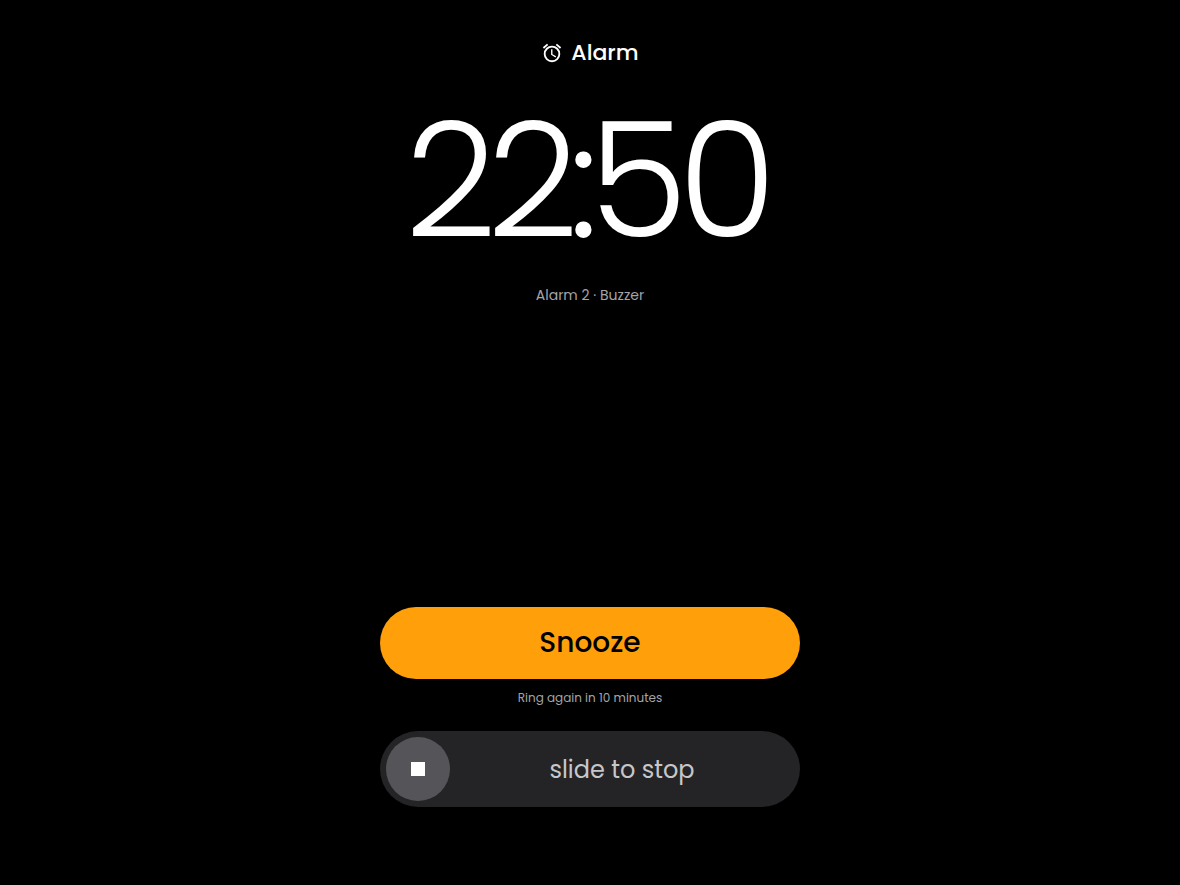
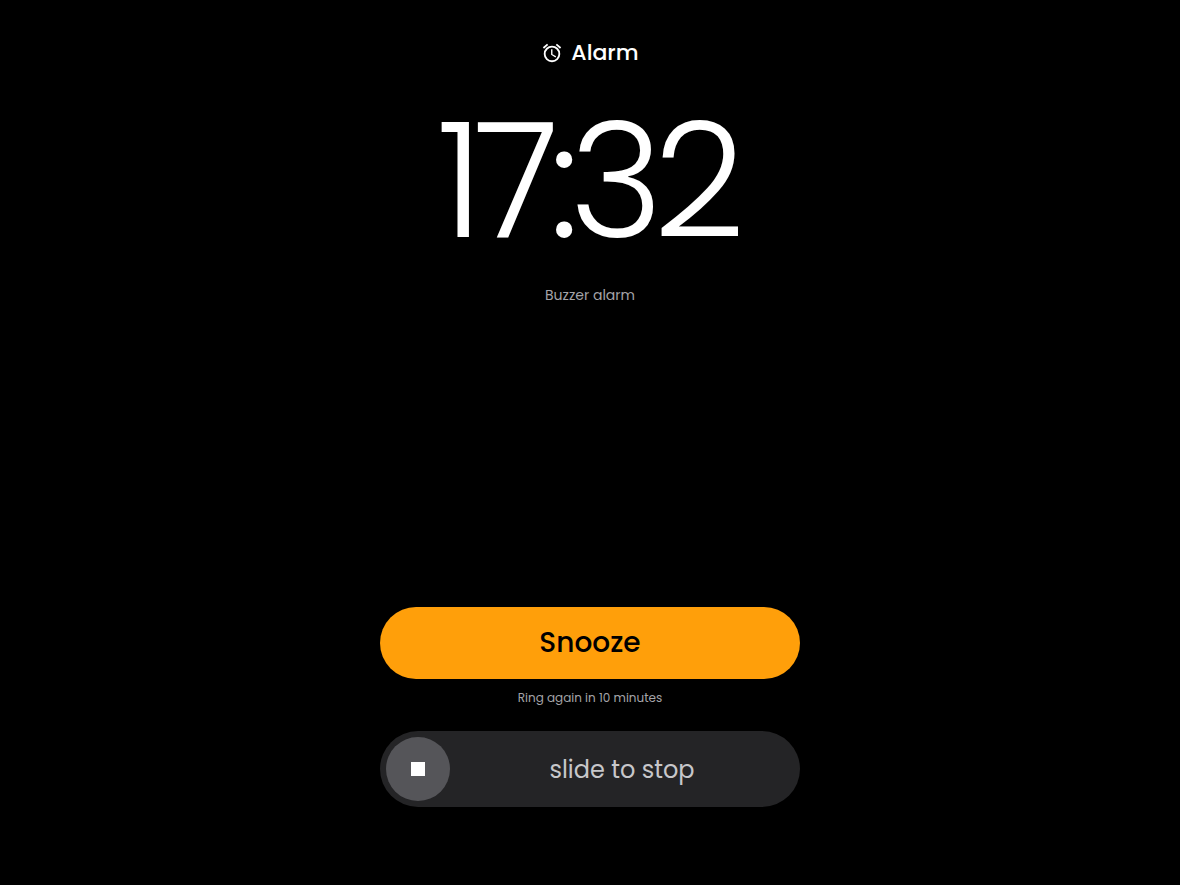
Remove numbered alarm labels (0.14.3)
Use time, type and repeat days to identify alarms in controls and deletion confirmations. Remove numbered titles, notifications and ringing labels while preserving HA profile IDs, command targets and captured ringing identity. Update tests and documentation screenshots.

Changed region(s): [[0.3356, 0.122, 0.6712, 0.2746], [0.4576, 0.3051, 0.5492, 0.3356]]

diff --git a/clock-radio/app/web/js/pages/alarms.js b/clock-radio/app/web/js/pages/alarms.js
@@ -30,6 +30,14 @@ export function repeatLabel(days) {
   return DAYS.flatMap((day, index) => days[day] ? [DAY_NAMES[index]] : []).join(", ");
 }
 
+export function alarmLabel(alarm, hour12) {
+  const parts = validTime(alarm) ? timeParts(alarm.hour, alarm.minute, hour12) : null;
+  const time = parts
+    ? `${hour12 ? parts.hour : pad(parts.hour)}:${pad(parts.minute)}${hour12 ? parts.period ? " PM" : " AM" : ""}`
+    : "--:--";
+  return `${time} · ${alarm.type || "Unavailable"} · ${repeatLabel(alarm.days)}`;
+}
+
 function hour12For(model) {
   const clock = model.config.clock;
   if (clock.time_format !== "automatic") return clock.time_format === "12-hour";
@@ -101,13 +109,14 @@ export function createAlarmPage(ctx) {
       ctx.toast("Deletion is unavailable. Check the HA package, connection and pending alarm operations.");
       return;
     }
-    if (!model.alarms.alarms.some((alarm) => alarm.id === id)) {
+    const alarm = model.alarms.alarms.find((alarm) => alarm.id === id);
+    if (!alarm) {
       ctx.toast("This alarm is no longer configured.");
       return;
     }
     deleteId = id;
-    deleteTitle.textContent = `Delete Alarm ${id}?`;
-    deleteMessage.textContent = "This cannot be undone. Any ringing playback or snooze for this alarm will be stopped/cancelled. "
+    deleteTitle.textContent = "Delete alarm?";
+    deleteMessage.textContent = `${alarmLabel(alarm, hour12For(model))}. This cannot be undone. Any ringing playback or snooze for this alarm will be stopped/cancelled. `
       + (id <= 2 ? "The bundled profile will be disabled and hidden; its YAML helpers remain in HA." : "This alarm's helpers will be removed from HA.");
     deleteStatus.textContent = "";
     deleteDialog.setAttribute("aria-modal", "true");
@@ -139,7 +148,7 @@ export function createAlarmPage(ctx) {
       if (await ctx.write("api/alarm/delete", { id })) {
         if (activeId === id) closeEditor();
         if (deleteDialog.open) deleteDialog.close();
-        ctx.toast(`Alarm ${id} deleted.`);
+        ctx.toast("Alarm deleted.");
       } else {
         deleteStatus.textContent = ctx.writeError() || "The alarm was not deleted. Check HA and retry.";
         pageStatus.textContent = deleteStatus.textContent;
@@ -300,7 +309,7 @@ export function createAlarmPage(ctx) {
     dirty = false;
     status.textContent = "";
     reload.hidden = true;
-    title.textContent = `Edit Alarm ${id}`;
+    title.textContent = "Edit alarm";
     timeZone.textContent = `Home Assistant time zone: ${model.clock.timeZone || "not available"}`;
     createdInfo.hidden = !created;
     createdInfo.textContent = created ? "This alarm is already stored in HA. Cancel leaves it disabled without applying your edits." : "";
@@ -331,7 +340,7 @@ export function createAlarmPage(ctx) {
         const record = rows.get(id);
         if (record) record.error = null;
         if (activeId === id) closeEditor();
-        ctx.toast(`Alarm ${id} saved.`);
+        ctx.toast("Alarm saved.");
       } else {
         status.textContent = ctx.writeError() || "Alarm settings were not saved.";
         reload.hidden = false;
@@ -349,16 +358,16 @@ export function createAlarmPage(ctx) {
     const time = h("span", { class: "alarm-row__time" });
     const period = h("span", { class: "alarm-row__period" });
     const summary = h("span", { class: "alarm-row__summary" });
-    const edit = h("button", { class: "alarm-row__edit", type: "button", "aria-label": `Edit Alarm ${id}` },
+    const edit = h("button", { class: "alarm-row__edit", type: "button", "aria-label": "Edit alarm" },
       h("span", { class: "alarm-row__clock" }, time, period), summary);
     edit.addEventListener("click", () => openEditor(id));
-    const toggle = switchControl(`Enable Alarm ${id}`);
+    const toggle = switchControl("Enable alarm");
     const message = h("p", { class: "alarm-row__status", role: "status" });
     const resume = h("button", { class: "btn", type: "button", hidden: true }, "Finish setup");
-    const remove = h("button", { class: "alarm-icon-button alarm-icon-button--danger", type: "button", "aria-label": `Delete Alarm ${id}`, title: `Delete Alarm ${id}` }, icon("delete"));
+    const remove = h("button", { class: "alarm-icon-button alarm-icon-button--danger", type: "button", "aria-label": "Delete alarm", title: "Delete alarm" }, icon("delete"));
     remove.addEventListener("click", () => openDelete(id));
     const record = { edit, toggle: toggle.control, time, period, summary, message, resume, remove, error: null, saving: false };
-    record.el = h("article", { class: "alarm-row", "aria-label": `Alarm ${id}` },
+    record.el = h("article", { class: "alarm-row", "aria-label": "Alarm" },
       h("div", { class: "alarm-row__main" }, edit, toggle.el, remove), message, resume);
     toggle.control.addEventListener("change", async () => {
       const model = ctx.getModel();
@@ -406,7 +415,7 @@ export function createAlarmPage(ctx) {
       if (ids.includes(id)) continue;
       record.el.remove();
       rows.delete(id);
-      ctx.toast(`Alarm ${id} is no longer configured.`);
+      ctx.toast("An alarm is no longer configured.");
     }
     const hour12 = hour12For(model);
     for (const alarm of alarms) {
@@ -422,7 +431,13 @@ export function createAlarmPage(ctx) {
         record.time.textContent = `${hour12 ? parts.hour : pad(parts.hour)}:${pad(parts.minute)}`;
         record.period.textContent = hour12 ? parts.period ? "PM" : "AM" : "";
       } else { record.time.textContent = "--:--"; record.period.textContent = ""; }
-      record.summary.textContent = `Alarm ${alarm.id} · ${alarm.type || "Unavailable"} · ${repeatLabel(alarm.days)}`;
+      record.summary.textContent = `${alarm.type || "Unavailable"} · ${repeatLabel(alarm.days)}`;
+      const label = alarmLabel(alarm, hour12);
+      record.el.setAttribute("aria-label", `Alarm: ${label}`);
+      record.edit.setAttribute("aria-label", `Edit alarm: ${label}`);
+      record.toggle.setAttribute("aria-label", `Enable alarm: ${label}`);
+      record.remove.setAttribute("aria-label", `Delete alarm: ${label}`);
+      record.remove.title = `Delete alarm: ${label}`;
       record.edit.disabled = busy || !available;
       record.toggle.disabled = busy || record.saving || !ctx.canControl() || !available || Boolean(model.alarms.delete_error);
       record.remove.disabled = record.saving || !deletionAllowed(model, alarm.id, busy);

diff --git a/clock-radio/app/test/alarm-ui.test.js b/clock-radio/app/test/alarm-ui.test.js
@@ -1,6 +1,6 @@
 import assert from "node:assert/strict";
 import test from "node:test";
-import { alarmSettings, canEditAlarm, repeatLabel } from "../web/js/pages/alarms.js";
+import { alarmLabel, alarmSettings, canEditAlarm, repeatLabel } from "../web/js/pages/alarms.js";
 import { timeParts, to24Hour } from "../web/js/components/time-picker.js";
 import { validateAlarm } from "../src/alarms.js";
 
@@ -36,6 +36,18 @@ test("repeat summaries distinguish disabled schedules from nonexistent one-shot 
   assert.equal(repeatLabel(days(["saturday", "sunday"])), "Weekends");
   assert.equal(repeatLabel(days(["monday", "tuesday", "wednesday", "thursday", "friday", "saturday", "sunday"])), "Every day");
   assert.equal(repeatLabel(days(["tuesday", "saturday"])), "Tue, Sat");
+});
+
+test("alarm labels use time, type and repeat days rather than profile numbers", () => {
+  const alarm = { id: 1, hour: 6, minute: 5, type: "Music", days: days(["monday", "tuesday", "wednesday", "thursday", "friday"]) };
+  assert.equal(alarmLabel(alarm, false), "06:05 · Music · Weekdays");
+  assert.equal(alarmLabel({ ...alarm, id: 42 }, false), alarmLabel(alarm, false));
+  assert.equal(alarmLabel(alarm, true), "6:05 AM · Music · Weekdays");
+  assert.equal(alarmLabel({ ...alarm, hour: 0 }, true), "12:05 AM · Music · Weekdays");
+  assert.equal(alarmLabel({ ...alarm, hour: 12 }, true), "12:05 PM · Music · Weekdays");
+  assert.equal(alarmLabel({ ...alarm, hour: 23, minute: 59, type: "Buzzer", days: days(["saturday", "sunday"]) }, true), "11:59 PM · Buzzer · Weekends");
+  assert.equal(alarmLabel({ ...alarm, hour: null, type: null }, false), "--:-- · Unavailable · Weekdays");
+  assert.equal(alarm.id, 1);
 });
 
 test("list switches send only supported settings and preserve every profile value", () => {

diff --git a/clock-radio/app/test/redesign.test.js b/clock-radio/app/test/redesign.test.js
@@ -140,7 +140,9 @@ test("partial native helper deletion stays visible and disabled, blocks resurrec
   };
   const failed = await app.post("api/alarm/delete", { id: 3 });
   assert.equal(failed.status, 502);
-  assert.match((await failed.json()).error, /retry Delete/);
+  const error = (await failed.json()).error;
+  assert.match(error, /^Alarm deletion failed:/);
+  assert.match(error, /retry Delete/);
   let state = await app.get("api/state");
   const pending = state.alarms.alarms.find((alarm) => alarm.id === 3);
   assert.equal(state.alarms.deleting, 3);
@@ -1124,7 +1126,9 @@ test("partial helper creation is visible, disabled and resumable without duplica
     if (message.type === "input_number/create") throw new Error("Helper creation denied");
     return original(message);
   };
-  assert.equal((await app.post("api/alarm/create", {})).status, 502);
+  const failed = await app.post("api/alarm/create", {});
+  assert.equal(failed.status, 502);
+  assert.match((await failed.json()).error, /^Alarm setup failed:/);
   const partial = (await app.get("api/state")).alarms.alarms[2];
   assert.equal(partial.enabled, false);
   assert.equal(partial.setup_complete, false);

diff --git a/clock-radio/app/src/alarms.js b/clock-radio/app/src/alarms.js
@@ -249,7 +249,7 @@ export async function provisionAlarm(ha, states, body, logger) {
       return { alarm_id: id };
     } catch (error) {
       logger.warn(`Alarm ${id} creation failed: ${error.message}`);
-      throw new RequestError(`Alarm ${id} setup failed: ${error.message} No alarm was enabled. Use Finish setup on the incomplete profile, or inspect its helpers in HA.`, 502);
+      throw new RequestError(`Alarm setup failed: ${error.message} No alarm was enabled. Use Finish setup on the incomplete profile, or inspect its helpers in HA.`, 502);
     }
 }
 
@@ -301,7 +301,7 @@ export async function deleteAlarm(ha, states, body, logger) {
     return { deleted_alarm_id: id };
   } catch (error) {
     logger.warn(`Alarm ${id} deletion failed: ${error.message}`);
-    throw new RequestError(`Alarm ${id} deletion failed: ${error.message} Check HA permissions/helpers and retry Delete; an unfinished deletion stays disabled.`, 502);
+    throw new RequestError(`Alarm deletion failed: ${error.message} Check HA permissions/helpers and retry Delete; an unfinished deletion stays disabled.`, 502);
   }
 }
 

diff --git a/clock-radio/app/test/server.test.js b/clock-radio/app/test/server.test.js
@@ -61,6 +61,9 @@ test("HTTP foundation works end to end with HA, hot reload, error paths and ingr
   const alarms = await (await fetch(`${url}/js/pages/alarms.js`)).text();
   assert.doesNotMatch(alarms, /Tap an alarm to edit|Swipe down for|Alarms run in Home Assistant\. New alarms start disabled/);
   assert.match(alarms, /addInfo\.hidden = !addInfo\.textContent/);
+  assert.doesNotMatch(alarms, /[Aa]larm \$\{/);
+  const alarmScreen = await (await fetch(`${url}/js/components/alarm-screen.js`)).text();
+  assert.doesNotMatch(alarmScreen, /[Aa]larm \$\{/);
   const api = await (await fetch(`${url}/js/core/api.js`)).text();
   assert.match(api, /fetch\(`\.\/\$\{url\}`/);
   const styles = await fetch(`${url}/styles.css`);

diff --git a/clock-radio/app/web/js/components/alarm-screen.js b/clock-radio/app/web/js/components/alarm-screen.js
@@ -110,7 +110,7 @@ export function createAlarmScreen(ctx, { onOpen, onClose }) {
     const supports = (flag) => Boolean((player?.supported_features ?? 0) & flag);
     const unavailable = !player || ["unavailable", "unknown"].includes(player.state);
     miniPlayer.hidden = active.type !== "Music";
-    context.textContent = `Alarm ${active.id} · ${active.type}`;
+    context.textContent = `${active.type} alarm`;
     const media = describeMedia(attrs, ctx.stations());
     title.textContent = media.title || "Alarm music";
     subtitle.textContent = unavailable ? "Speaker unavailable" : [media.subtitle, player.name, player.state === "paused" ? "Paused" : ""].filter(Boolean).join(" · ");

diff --git a/clock-radio/app/test/alarm-screen.test.js b/clock-radio/app/test/alarm-screen.test.js
@@ -21,6 +21,7 @@ test("captured type survives edits/replacement, and incomplete cleanup stays vis
   assert.equal(snapshot.active.id, 2);
   assert.equal(snapshot.can_snooze, true);
   const key = alarmKey(snapshot.active);
+  assert.notEqual(alarmKey({ ...snapshot.active, id: 42 }), key);
   demo.states.find((state) => state.entity_id === "input_select.clock_radio_alarm_2_type").state = "Music";
   assert.equal(alarmSnapshot(demo.states).active.type, "Buzzer");
   demo.startAlarm(1);

diff --git a/clock-radio/DOCS.md b/clock-radio/DOCS.md
@@ -36,7 +36,9 @@ described in the alarm package setup; these shared defaults are not editable
 in the app.
 
 Alarm configuration shows a compact list with large wake times and immediate
-enable switches. Setup/deletion warnings appear only when action is needed.
+enable switches. Alarms are identified by time, type and repeat days rather
+than numbered names; internal HA profile/helper IDs are unchanged.
+Setup/deletion warnings appear only when action is needed.
 Tap an alarm to open its editor. Scroll the hour/minute wheels
 or use Arrow Up/Down, Home/End and Page Up/Down while a wheel is focused.
 The wheels follow the clock's 12/24-hour setting; 12-hour mode includes AM/PM.

diff --git a/clock-radio/CHANGELOG.md b/clock-radio/CHANGELOG.md
@@ -1,5 +1,13 @@
 # Changelog
 
+## 0.14.3
+
+- Remove numbered alarm names from the list, editor, delete confirmation,
+  notifications, accessibility labels and ringing screen.
+- Identify row controls and delete targets by time, type and repeat days.
+  Keep internal HA profile/helper IDs and command targeting unchanged.
+- Refresh the affected Alarm and ringing-screen documentation screenshots.
+
 ## 0.14.2
 
 - Remove the two explanatory lines above the Alarm list, while retaining
